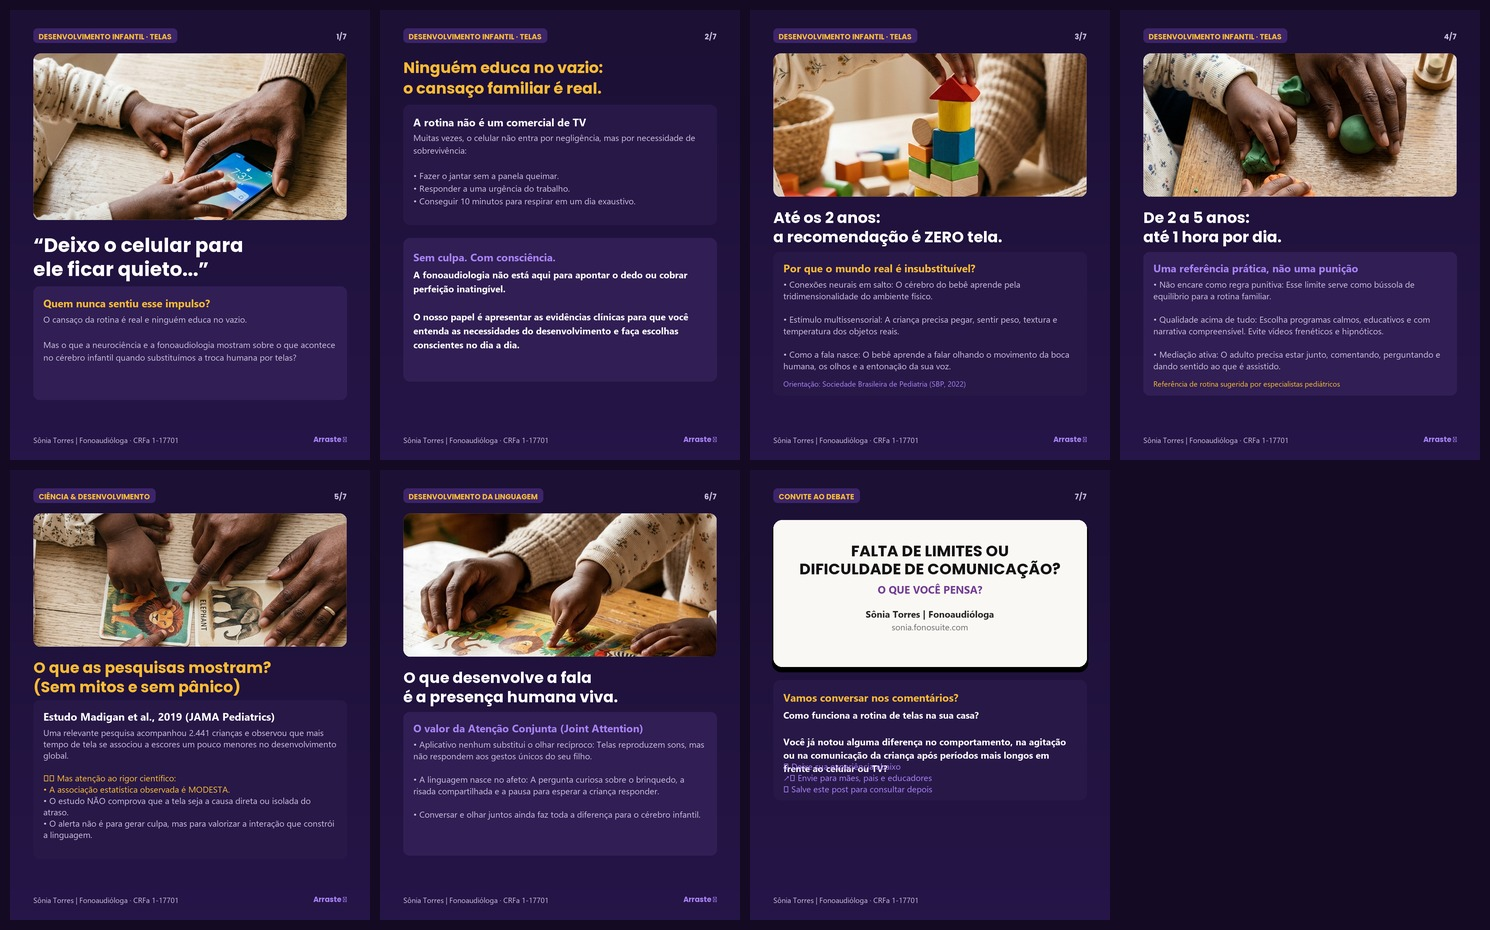
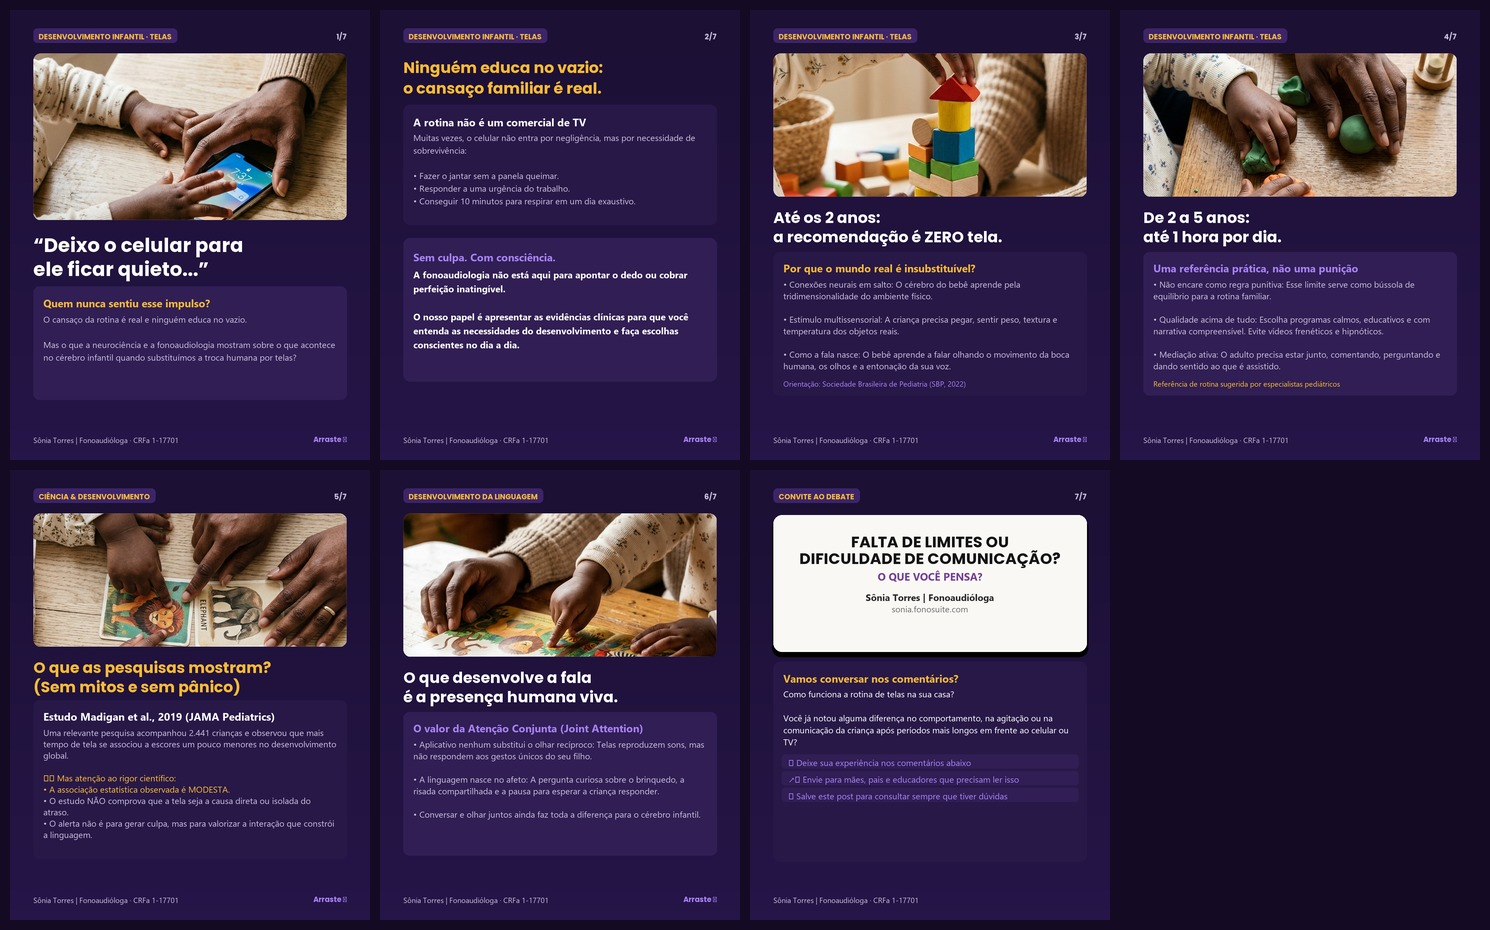
fix(carrossel): corrigir sobreposicao de texto no slide 7
O que foi alterado:
- Corrigido o calculo de coordenadas verticais no slide 7 em 'scripts/gerar_carrossel_telas.py'.
- As 3 acoes de engajamento foram desacopladas do offset fixo e agora sao posicionadas dinamicamente logo apos a ultima linha do texto da pergunta, com caixas de destaque individuais.
- Altura e respiro do container inferior expandidos para 600px, eliminando qualquer colisao com o rodape.
- Re-renderizados 'slide_07_debate_cta.png' e 'prancha_contato_carrossel.jpg'.

Por que foi alterado:
- O texto do bloco de debate e as chamadas de acao (comentarios, compartilhamento e salvamento) estavam com sobreposicao visual entre as coordenadas Y=870 e Y=950.

Impactos esperados:
- Slide 7 perfeitamente legivel, arejado e com alta nitidez tipografica para publicacao no Instagram.

Changed region(s): [[0.494, 0.5301, 0.7409, 0.8731]]

diff --git a/OneDrive/Documentos/1MATERIASIDASONIA/01reels_novos/scripts/gerar_carrossel_telas.py b/OneDrive/Documentos/1MATERIASIDASONIA/01reels_novos/scripts/gerar_carrossel_telas.py
@@ -420,9 +420,9 @@ def render_slide_7():
     
     # Card Elegante Central em Off-White (idêntico ao fechamento do vídeo)
     card_w = 940
-    card_h = 440
+    card_h = 410
     card_x = (W - card_w) // 2
-    card_y = 150
+    card_y = 135
     
     # Sombra do card
     draw.rounded_rectangle(
@@ -440,55 +440,59 @@ def render_slide_7():
     
     # Textos do card interno
     t1_lines = ["FALTA DE LIMITES OU", "DIFICULDADE DE COMUNICAÇÃO?"]
-    curr_y = card_y + 60
+    curr_y = card_y + 48
     for line in t1_lines:
         bbox = font_title.getbbox(line)
         lw = bbox[2] - bbox[0]
         draw.text(((W - lw) // 2, curr_y), line, font=font_title, fill=(20, 20, 20))
-        curr_y += 54
+        curr_y += 50
         
-    curr_y += 18
+    curr_y += 14
     t2 = "O QUE VOCÊ PENSA?"
     bbox2 = font_subtitle.getbbox(t2)
     w2 = bbox2[2] - bbox2[0]
     draw.text(((W - w2) // 2, curr_y), t2, font=font_subtitle, fill=(115, 62, 147))
     
-    curr_y += 76
+    curr_y += 65
     t3 = "Sônia Torres | Fonoaudióloga"
     bbox3 = font_body_bold.getbbox(t3)
     w3 = bbox3[2] - bbox3[0]
     draw.text(((W - w3) // 2, curr_y), t3, font=font_body_bold, fill=(40, 40, 40))
     
-    curr_y += 40
+    curr_y += 36
     t4 = "sonia.fonosuite.com"
     bbox4 = font_body.getbbox(t4)
     w4 = bbox4[2] - bbox4[0]
     draw.text(((W - w4) // 2, curr_y), t4, font=font_body, fill=(110, 110, 110))
     
-    # Bloco inferior de interação
-    box_y = 630
-    draw.rounded_rectangle([70, box_y, W - 70, box_y + 360], radius=20, fill=BG_CARD)
-    draw.text((100, box_y + 30), "Vamos conversar nos comentários?", font=font_subtitle, fill=ACCENT_GOLD)
+    # Bloco inferior de interação (ajustado para acomodar texto e ações sem colisão)
+    box_y = 575
+    box_h = 600
+    draw.rounded_rectangle([70, box_y, W - 70, box_y + box_h], radius=20, fill=BG_CARD)
+    draw.text((100, box_y + 28), "Vamos conversar nos comentários?", font=font_subtitle, fill=ACCENT_GOLD)
     
     cta_body = (
         "Como funciona a rotina de telas na sua casa?\n\n"
         "Você já notou alguma diferença no comportamento, na agitação ou na comunicação da criança após períodos mais longos em frente ao celular ou TV?"
     )
-    cby = box_y + 85
-    for cl in wrap_text(cta_body, font_body_bold, W - 200, draw):
-        draw.text((100, cby), cl, font=font_body_bold, fill=TEXT_WHITE)
-        cby += 40
+    cby = box_y + 78
+    for cl in wrap_text(cta_body, font_body, W - 200, draw):
+        draw.text((100, cby), cl, font=font_body, fill=TEXT_WHITE)
+        cby += 36
         
-    # Ações de engajamento
-    act_y = box_y + 240
+    # Ações de engajamento posicionadas DINAMICAMENTE após o texto (sem sobreposição)
+    act_y = cby + 26
     actions = [
-        "💬 Deixe sua experiência abaixo",
-        "↗ Envie para mães, pais e educadores",
-        "🔖 Salve este post para consultar depois"
+        "💬 Deixe sua experiência nos comentários abaixo",
+        "↗ Envie para mães, pais e educadores que precisam ler isso",
+        "🔖 Salve este post para consultar sempre que tiver dúvidas"
     ]
     for act in actions:
-        draw.text((100, act_y), act, font=font_body, fill=ACCENT_LILAC)
-        act_y += 34
+        # Fundo arredondado sutil para destacar cada ação
+        act_bbox = font_body.getbbox(act)
+        draw.rounded_rectangle([95, act_y - 6, W - 95, act_y + 36], radius=10, fill=BOX_BG)
+        draw.text((115, act_y), act, font=font_body, fill=ACCENT_LILAC)
+        act_y += 50
         
     # Assinatura de rodapé com selo de fechamento
     draw_footer(draw, is_last=True)
